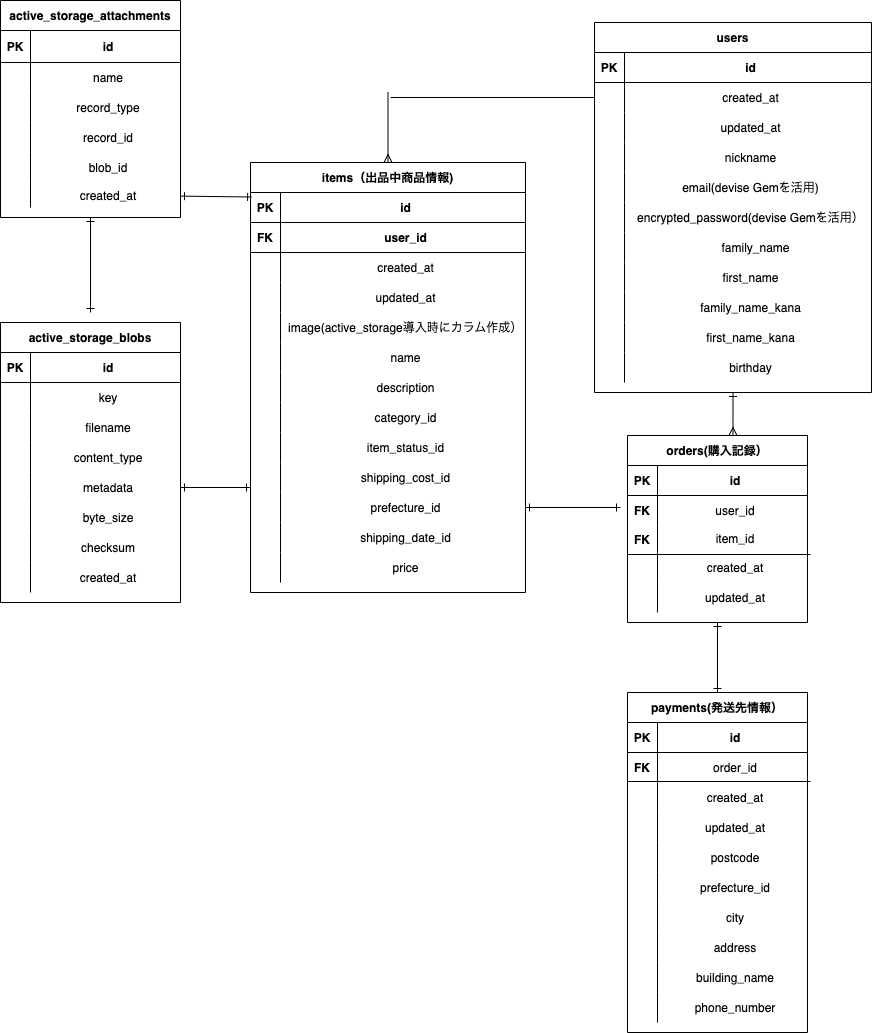
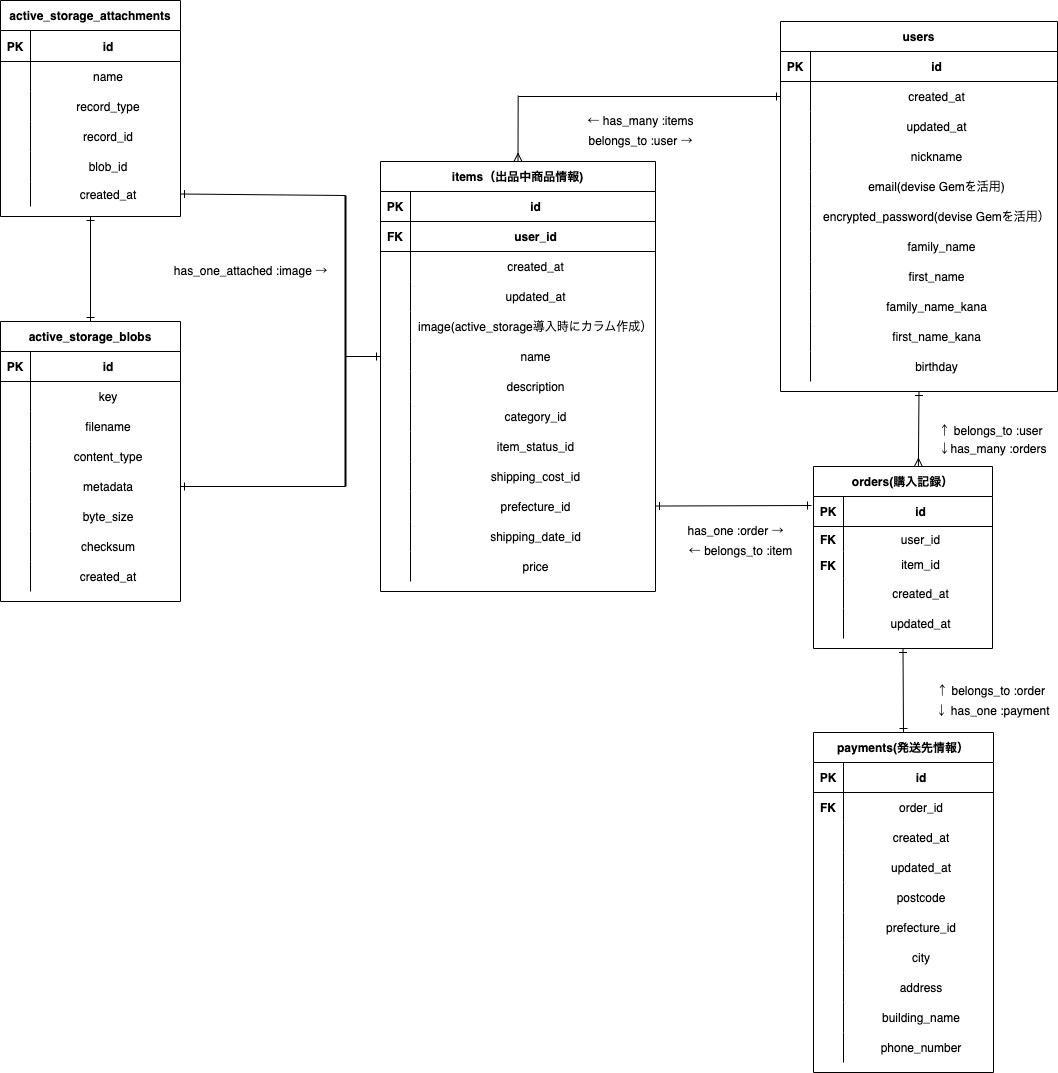
データベース設計　修正

diff --git a/README.md b/README.md
@@ -4,9 +4,9 @@
 
 | Column             | Type    | Options     |
 | ------------------ | ----    | ----------- |
-| nickname           | string  | null: false, unique: true |
+| nickname           | string  | null: false |
 | email              | string  | null: false, unique: true |
-| encrypted_password | string  | null: false, unique: true |
+| encrypted_password | string  | null: false |
 | family_name        | string  | null: false |
 | first_name         | string  | null: false |
 | family_name_kana   | string  | null: false |
@@ -22,7 +22,7 @@ has_many :comments
 
 | Column           | Type       | Options     | 
 | ---------------- | -----------| -------     |
-| user             | references | null: false, foreign_key: true|
+| user_id          | references | null: false, foreign_key: true|
 | name             | string     | null: false |
 | description      | text       | null: false |
 | category_id      | integer    | null: false |
@@ -36,13 +36,14 @@ has_many :comments
 belongs_to :user
 has_one :order
 has_many :comments
+has_one_attached :image
 
 ## orders テーブル
 
-| Column | Type       | Options                        |
-| ------ | ---------- | ------------------------------ |
-| user   | references | null: false, foreign_key: true |
-| item   | references | null: false, foreign_key: true |
+| Column  | Type       | Options                        |
+| ------- | ---------- | ------------------------------ |
+| user_id | references | null: false, foreign_key: true |
+| item_id | references | null: false, foreign_key: true |
 
 ### Association
 belongs_to :user
@@ -53,7 +54,7 @@ has_one :payment
 
 | Column        | Type       | Options                        |
 | ------------- | ---------- | ------------------------------ |
-| order         | references | null: false, foreign_key: true |
+| order_id      | references | null: false, foreign_key: true |
 | postcode      | string     | null: false                    |
 | prefecture_id | integer    | null: false                    |
 | city          | string     | null: false                    |
@@ -66,13 +67,33 @@ belongs_to :order
 
 ## comments テーブル
 
-| Column | Type       | Options                        |
-| ------ | ---------- | ------------------------------ |
-| user   | references | null: false, foreign_key: true |
-| item   | references | null: false, foreign_key: true |
-| text   | text       | null: false                    |
+| Column  | Type       | Options                        |
+| ------  | ---------- | ------------------------------ |
+| user_id | references | null: false, foreign_key: true |
+| item_id | references | null: false, foreign_key: true |
+| text    | text       | null: false                    |
 
 ### Association
 
 belongs_to :user
 belongs_to :item
+
+## active_storage_attachments　 テーブル
+
+| Column      | Type    | Options     | 
+| ----------- | ------- | ----------- |
+| name        | string  | null: false |
+| record-type | string  | null: false |
+| record_id   | integer | null: false |
+| blob_id     | integer | null: false |
+
+## active_storage_blobs テーブル
+
+| Column       | Type    | Options     |
+| ------------ | ------- | ----------- |
+| key          | string  | null: false |
+| filename     | string  | null: false |
+| content_type | string  | null: false |
+| metadata     | string  | null: false |
+| byte_size    | integer | null: false |
+| checksum     | string  | null: false |
